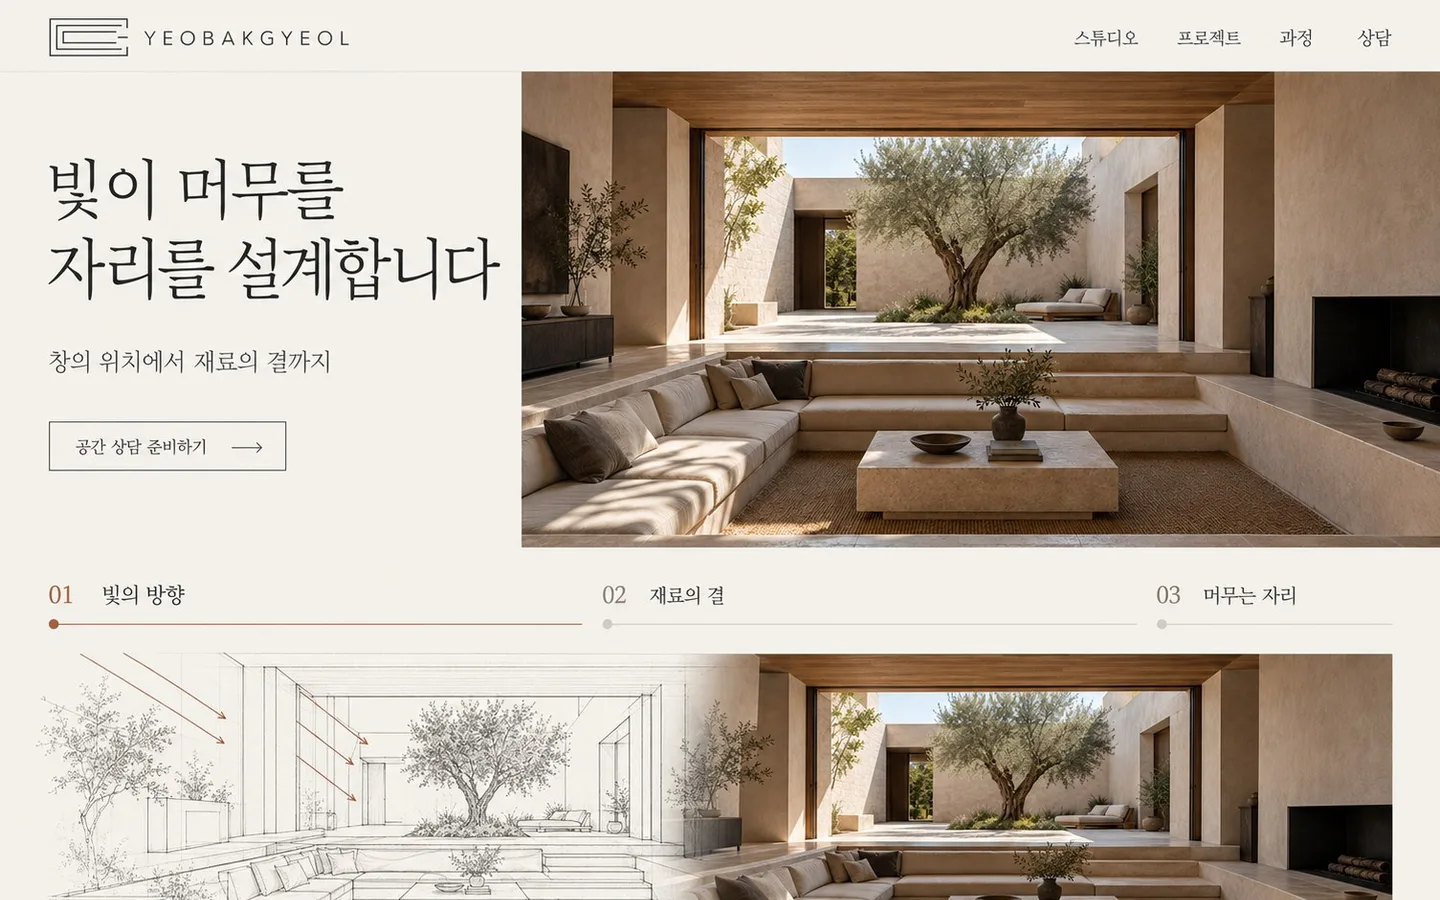
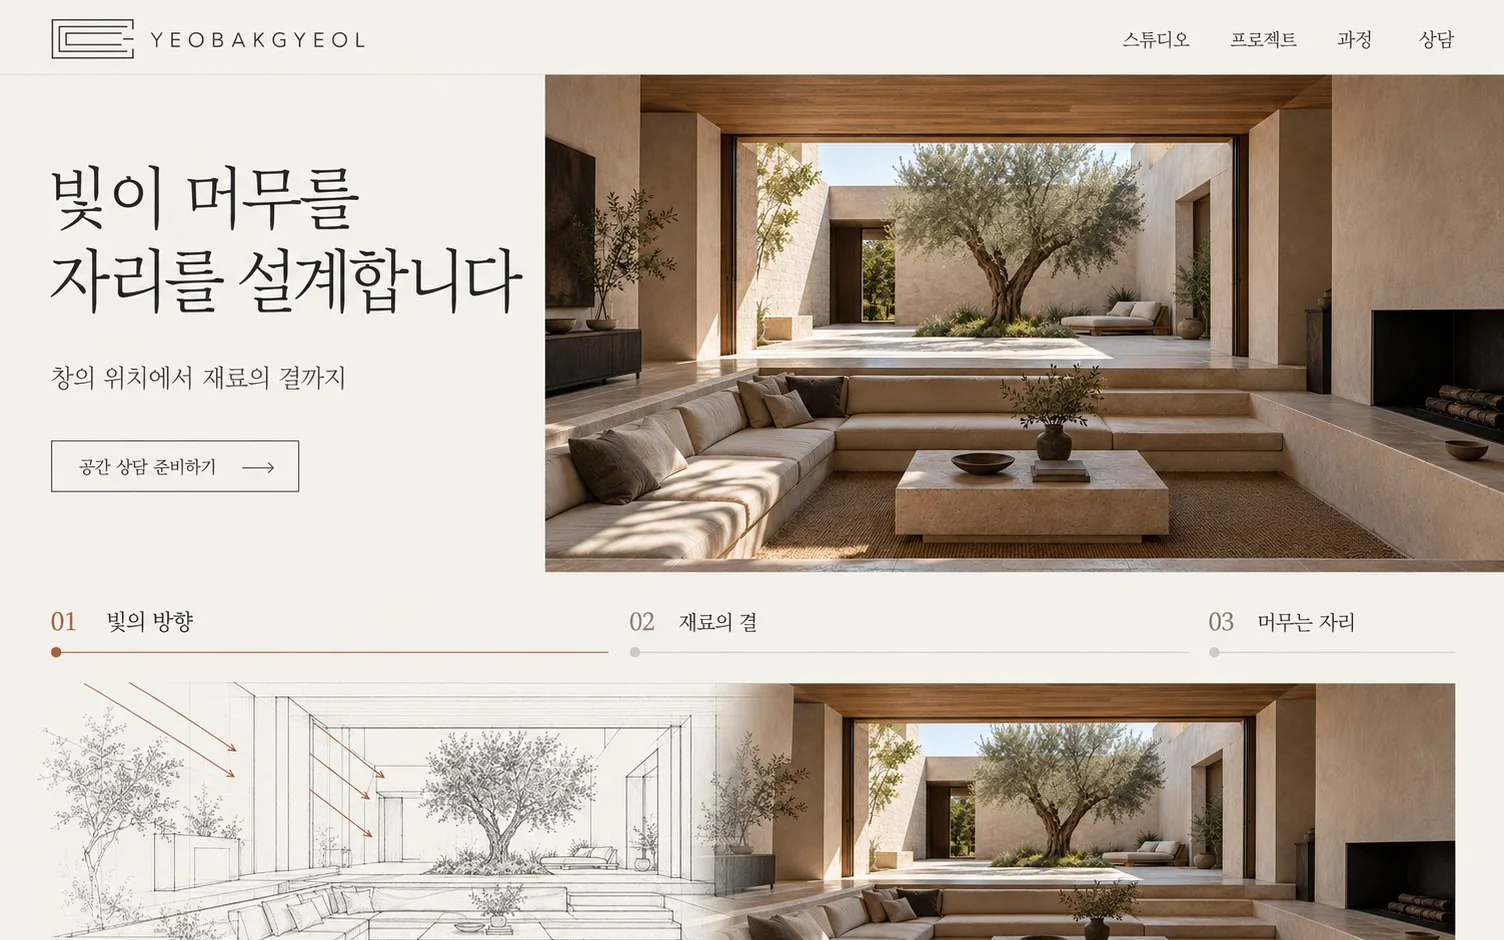
fix: sharper main dev slider, drop remaining starting prices on 5 content services

diff --git a/components/content-site/blocks/related.tsx b/components/content-site/blocks/related.tsx
@@ -29,7 +29,8 @@ export function CsRelated({ current }: { current: ContentServiceId }) {
         />
         <ul className="cs-related-list">
           {CONTENT_SERVICES.filter((s) => s.id !== current).map((s) => {
-            const price = startingPrice(s.id, true);
+            // 사용자 10/30: 관련 서비스 카드의 시작가는 웹툰만 남긴다
+            const price = s.id === "webtoon" ? startingPrice(s.id, true) : null;
             const line = lineOf(s.id);
             return (
               <li key={s.id}>

diff --git a/components/content-site/shell/mobile-bar.tsx b/components/content-site/shell/mobile-bar.tsx
@@ -47,7 +47,8 @@ export function ContentMobileBar() {
 
   if (!serviceId) return null;
   const service = CONTENT_SERVICES.find((s) => s.id === serviceId);
-  const price = startingPrice(serviceId);
+  // 사용자 10/30: 웹툰 외 5개 서비스는 하단 바에 시작가를 띄우지 않는다(가격은 #pricing 절에)
+  const price = serviceId === "webtoon" ? startingPrice(serviceId) : null;
   const hidden = inlineVisible || keyboard;
   return (
     <aside

diff --git a/components/home/journey-dev-compare.tsx b/components/home/journey-dev-compare.tsx
@@ -24,7 +24,8 @@ export type CompareModel = {
   mobile: { before: JourneyMedia; after: JourneyMedia } | null;
 };
 
-const PC_SIZES = "(min-width: 1024px) 880px, 94vw";
+// The PC stage is about 1,060px wide at 1440, so ask for that, not 880px (PC1 17:5x: soft at 1.2x)
+const PC_SIZES = "(min-width: 1440px) 1100px, (min-width: 1024px) 76vw, 94vw";
 const MOBILE_SIZES = "(min-width: 768px) 320px, 70vw";
 const TAP_SLOP = 6;
 
